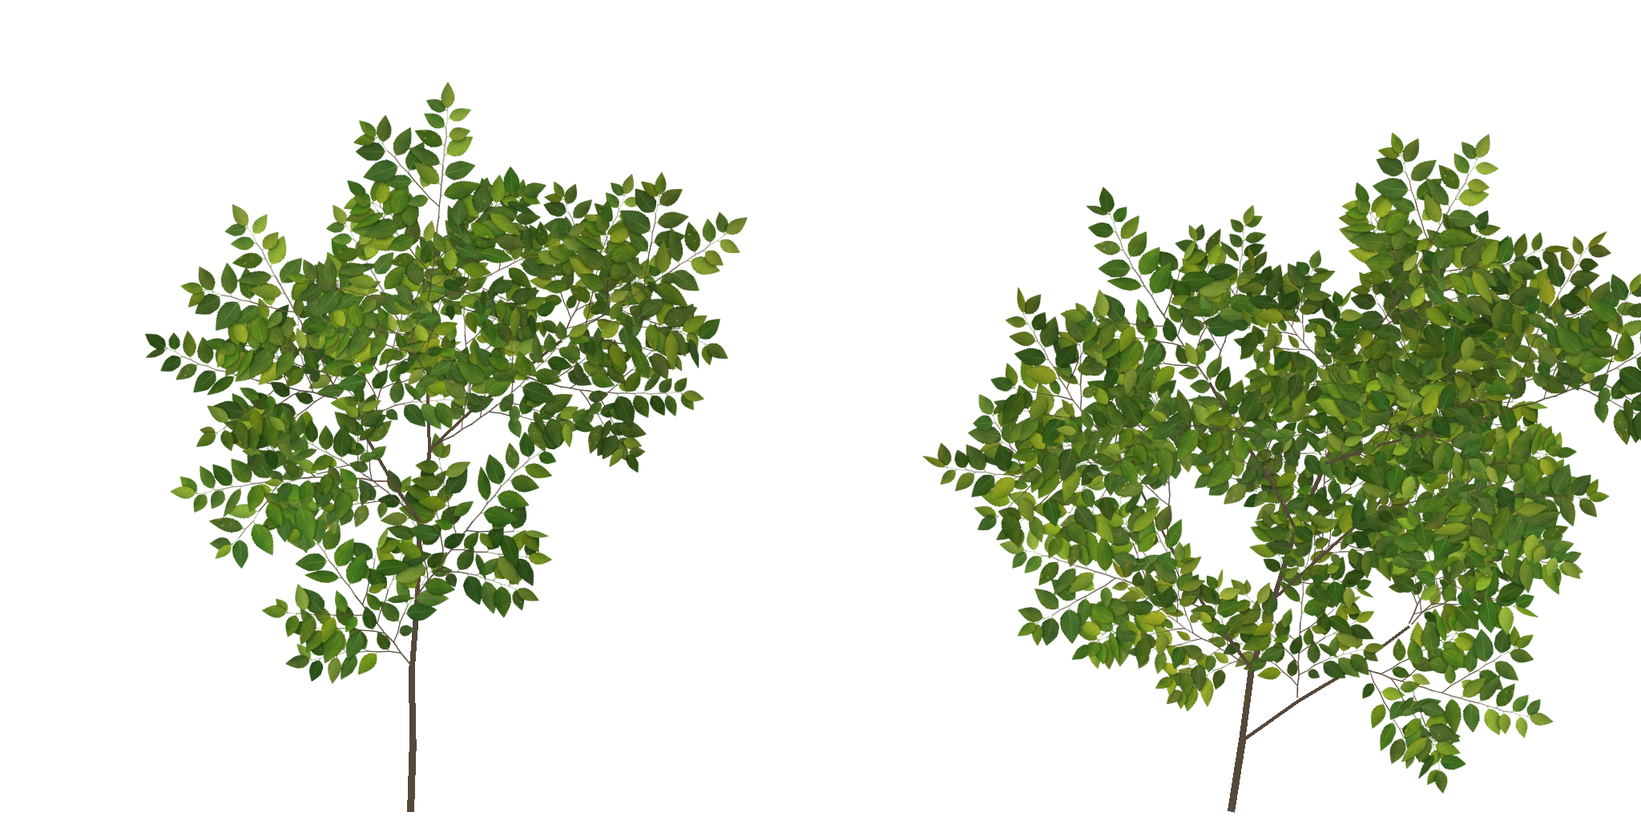
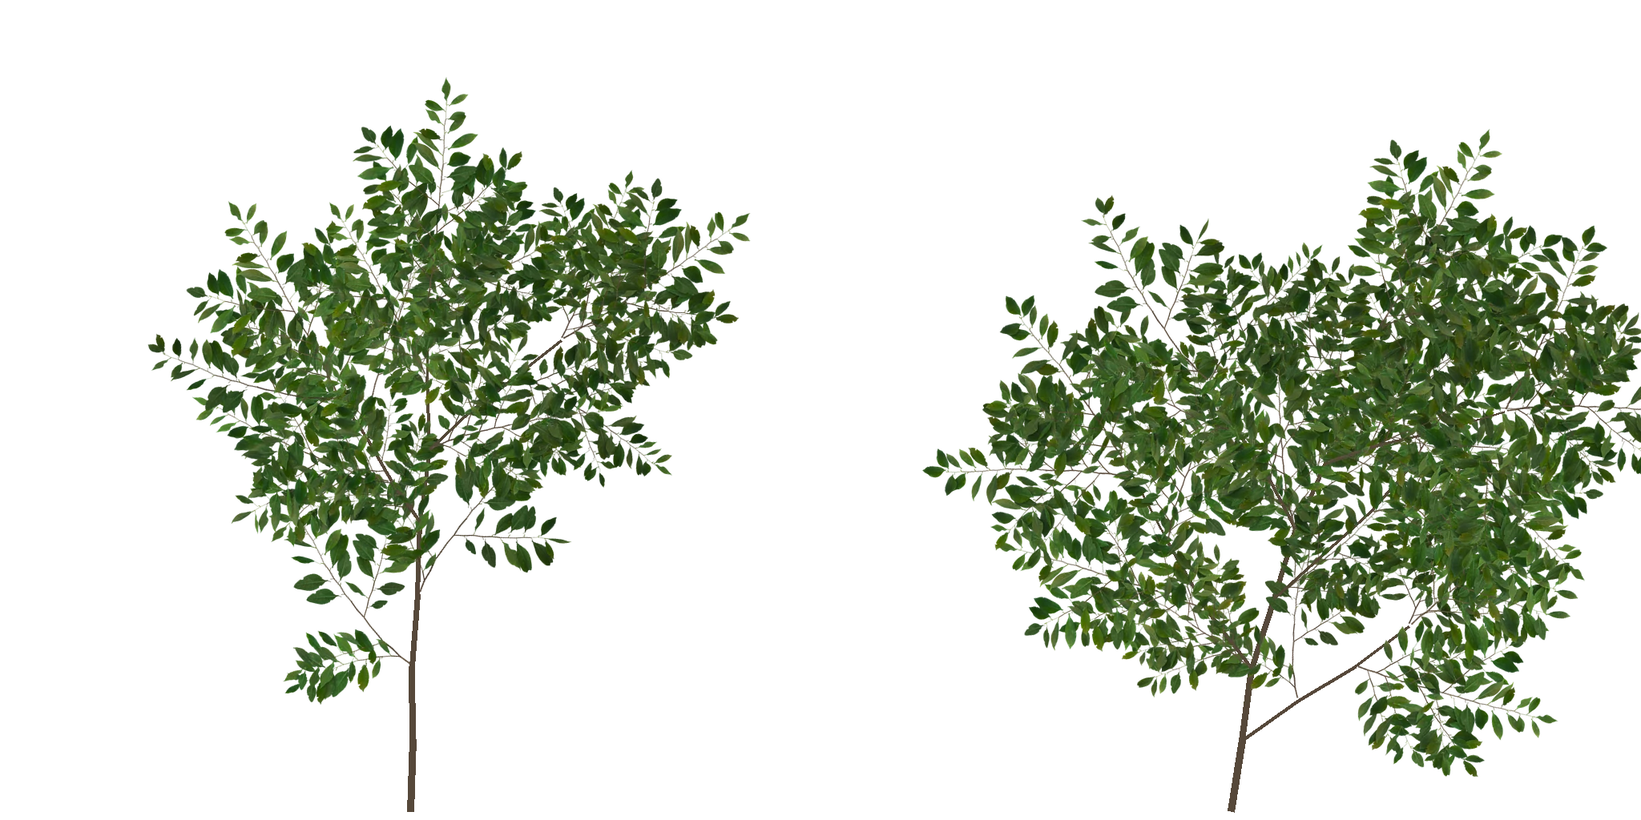
forest-pool: round 9 work in progress
Claude-Session: https://claude.ai/code/session_018FYuZc6D6uuurfGoeetqv3

Changed region(s): [[0.5625, 0.1562, 1.0, 0.9688], [0.0625, 0.0938, 0.4688, 0.875]]

diff --git a/forest-pool/src/trees.js b/forest-pool/src/trees.js
@@ -172,7 +172,7 @@ function basis(pos, dir, nrm, sx, sy, sz, out) {
 
 // Real leaves along a twig: alternate and roughly in the twig's plane, but as untidy as the real thing:
 // uneven spacing bunched toward the tip, missing leaves, every size, each rolled and pitched its own way.
-function leafTwig(limb, leaves, r, tint, { spacing = 0.034, size = 0.088, from = 0.1, shade = 1 } = {}) {
+function leafTwig(limb, leaves, r, tint, { spacing = 0.034, size = 0.1, from = 0.1, shade = 1 } = {}) {
   const n = Math.max(2, Math.floor(limb.path.L * (1 - from) / spacing));
   const P = V(0, 0, 0), T = V(0, 0, 0), side = V(0, 0, 0), dir = V(0, 0, 0), nrm = V(0, 0, 0);
   let s = r() < 0.5 ? 1 : -1;
@@ -379,7 +379,7 @@ function heroLeft(out, r) {
   ];
   mains.forEach((m, i) => out.geos.push(tube(m, { radial: i < 2 ? 18 : 10, collar: i < 2 ? 0.35 : 0.55, lumps: 0.05, seed: i * 2.1, knots: i < 2 ? addKnots(r, 4, 4, m.r0) : null, barkTile: i < 2 ? 1.5 : 0.75 })));
   const top = new Limb(new Path(trunkPath.p.filter((_, i) => trunkPath.cum[i] > 5.5)), 0.17, 0.04, 0.03, 0.5, 1);
-  growHero([...mains, top], r, out, [0.9, 0.96, 0.8], { twigDensity: out.twigDensity });
+  growHero([...mains, top], r, out, [1.0, 1.0, 0.9], { twigDensity: out.twigDensity });
 }
 
 function heroRight(out, r) {
@@ -412,7 +412,7 @@ function heroRight(out, r) {
     mains.push(leader(pts, lerp(0.12, 0.05, t), 0.012, 0.3 + t * 0.4));
   }
   mains.forEach((m, i) => out.geos.push(tube(m, { radial: 10, collar: 0.6, lumps: 0.04, seed: i, barkTile: 0.75 })));
-  growHero(mains, r, out, [0.7, 0.86, 0.78], { branchCount: 12, twigDensity: out.twigDensity });
+  growHero(mains, r, out, [0.8, 0.9, 0.85], { branchCount: 12, twigDensity: out.twigDensity });
 }
 
 // --- Forest ---------------------------------------------------------------------------
@@ -454,7 +454,7 @@ function forestTree(x, z, r, out, kind, force = null) {
   let H = 21 + r() * 9, R = 0.15 + Math.pow(r(), 3) * 0.42;        // many slim stems, few stout ones
   if (type === 'old') { H = 25 + r() * 8; R = 0.4 + r() * r() * 0.22; }
   if (type === 'young') { H = 10 + r() * 7; R = 0.07 + H * 0.006 + r() * 0.03; }
-  if (type === 'snag') { H = 7 + r() * 9; R = 0.2 + r() * 0.2; }
+  if (type === 'snag') { H = force ? 11 + r() * 3 : 7 + r() * 9; R = force ? 0.3 : 0.2 + r() * 0.2; }
   // Trees on the bank lean out over the water toward the light; everything else leans a few degrees its own way.
   const rv = river(x, z);
   const e = Math.abs(rv.d) - rv.w;
@@ -462,12 +462,12 @@ function forestTree(x, z, r, out, kind, force = null) {
   const la = r() * 6.283, lm = (type === 'young' ? 0.06 + r() * 0.16 : 0.02 + r() * 0.1) * (far ? 1.7 : 1);
   const lx = -rv.tz * toward + Math.cos(la) * lm, lz = rv.tx * toward + Math.sin(la) * lm;
   const ctrl = [];
-  const bend = (r() - 0.5) * (type === 'young' ? 1.6 : 1.1), ba = r() * 6.28;
+  const bend = (r() - 0.5) * (type === 'young' ? 2.2 : 1.9), ba = r() * 6.28, bend2 = (r() - 0.5) * (type === 'snag' ? 0.2 : 0.6), bb = r() * 6.28;
   for (let i = 0; i <= 6; i++) {
     const f = i / 6, h = f * H;
-    const sb = Math.sin(f * Math.PI) * bend;
-    const j = i > 0 ? 0.26 : 0;
-    ctrl.push(V(x + lx * h * (0.6 + f) + Math.cos(ba) * sb + (r() - 0.5) * j, y0 - 0.6 + h, z + lz * h * (0.6 + f) + Math.sin(ba) * sb + (r() - 0.5) * j));
+    const sb = Math.sin(f * Math.PI) * bend * (type === 'snag' ? 0.3 : 1), sc2 = Math.sin(f * Math.PI * 2.3) * bend2 * f;
+    const j = i > 0 ? 0.36 : 0;
+    ctrl.push(V(x + lx * h * (0.6 + f) + Math.cos(ba) * sb + Math.cos(bb) * sc2 + (r() - 0.5) * j, y0 - 0.6 + h, z + lz * h * (0.6 + f) + Math.sin(ba) * sb + Math.sin(bb) * sc2 + (r() - 0.5) * j));
   }
   const path = smoothPath(ctrl, far ? 0.5 : 1.3);
   const trunk = new Limb(path, R, R * 0.16, 0, 1.0, 0);
@@ -475,9 +475,9 @@ function forestTree(x, z, r, out, kind, force = null) {
   trunk.radiusAt = (t) => (snag ? R * (1 - 0.35 * t) : R * (1 - 0.84 * Math.pow(t, 1.25)));
   trunk.swayAt = (t) => (snag ? 0 : (type === 'young' ? 1.4 : 1.0) * Math.pow(Math.max(0, t - 0.1), 2.3));
   // every trunk its own shade of grey: some weathered pale, some dark and wet-looking, a few green with algae
-  const bv = snag ? (force ? 1.45 : 0.95) : 0.72 + r() * 0.4, bh = r();
+  const bv = snag ? 1.0 : 0.72 + r() * 0.4, bh = r();
   const tintV = [bv * (0.96 + bh * 0.08), bv * (0.98 + (1 - bh) * 0.06), bv * (0.9 + bh * 0.1)];
-  out.geos.push(tube(trunk, { radial: far ? 7 : type === 'young' ? 9 : 14, flare: far ? 0 : type === 'old' ? 1.15 : 0.8, flareLobes: 4 + Math.floor(r() * 3), flareH: 0.4 + R * 0.6, seed: r() * 10, lumps: far ? 0 : snag ? 0.12 : 0.06, knots: far || type === 'young' ? null : addKnots(r, Math.min(8, H * 0.4), 5, R), barkTile: 1.3, ground: y0, tintV }));
+  (snag ? out.snags : out.geos).push(tube(trunk, { radial: far ? 7 : type === 'young' ? 9 : 14, flare: far ? 0 : type === 'old' ? 1.6 : 1.15, flareLobes: 4 + Math.floor(r() * 3), flareH: 0.45 + R * 0.9, seed: r() * 10, lumps: far ? 0 : snag ? 0.12 : 0.06, knots: far || type === 'young' ? null : addKnots(r, Math.min(8, H * 0.4), 5, R), barkTile: 1.3, ground: y0, tintV }));
   out.contacts.push({ x, z, r: R * 2.6, dark: 0.5, moss: 0.6 });
   // roots exposed where the bank has been washed out from under the tree
   if (!far && e < 3.4 && type !== 'young') {
@@ -487,18 +487,22 @@ function forestTree(x, z, r, out, kind, force = null) {
   if (snag) {
     // broken stubs and one or two dead limbs
     const stubs = sprout(trunk, { count: 4, t0: 0.35, t1: 0.98, angle: [50, 85], len: () => 0.5 + r() * 1.6, rRatio: 0.4, rTip: 0.02, planar: false, wiggle: 0.3, segs: 3, droop: 0.15 }, r);
-    for (const b of stubs) out.geos.push(tube(b, { radial: 5, collar: 0.5, barkTile: 0.7, tintV }));
+    for (const b of stubs) out.snags.push(tube(b, { radial: 5, collar: 0.5, barkTile: 0.7, tintV }));
     return;
   }
   // species and site: most crowns mid-green, some deep blue-green, some olive, some yellow-green, a few much darker (alder)
   const ph = Math.abs(Math.sin(x * 12.9898 + z * 78.233) * 43758.5453) % 1, pv = 0.86 + 0.22 * (Math.abs(Math.sin(x * 39.3 + z * 11.1) * 9631.7) % 1);
   const pal = ph < 0.16 ? [0.5, 0.7, 0.56] : ph < 0.36 ? [0.66, 0.86, 0.78] : ph < 0.54 ? [0.98, 0.92, 0.5] : ph < 0.7 ? [1.06, 1.02, 0.56] : [0.86, 0.96, 0.74];
   const tint = [(0.86 + r() * 0.3) * pal[0] * pv, (0.94 + r() * 0.14) * pal[1] * pv, (0.72 + r() * 0.4) * pal[2] * pv];
+  // a second, darker species with feathery compound leaves, about a quarter of the stand
+  const sp2 = !far && ph < 0.26;
+  if (sp2) { tint[0] = 0.8 * pv; tint[1] = 0.84 * pv; tint[2] = 0.8 * pv; }
   { const c = path.at(0.78); out.crowns.push({ x: c.x, z: c.z, r: Math.max(3, (type === 'young' ? 4.4 * 0.9 : type === 'old' ? 8.5 * H / 26 : 7.0 * H / 26) * 0.95) }); }
   const crown0 = type === 'young' ? 0.25 + r() * 0.2 : type === 'old' ? 0.3 + r() * 0.12 : 0.34 + r() * 0.26;
   const lenBase = (type === 'young' ? 4.4 : type === 'old' ? 8.5 : 7.0) * (H / 26) * (type === 'young' ? 26 / H * 0.9 : 1);
   const nL = far ? 10 : type === 'young' ? 13 + Math.floor(r() * 4) : 13 + Math.floor(r() * 5);
   const o = { far, mid, tint, tintV, H };
+  if (sp2) out = { ...out, sprays: out.sprays2, boughs: out.boughs2 };
   if (type === 'old' && !far) {
     // co-dominant leaders split off low in the crown and carry their own limbs
     const nLead = 1 + Math.floor(r() * 2);
@@ -574,7 +578,7 @@ export function createTrees(quality) {
   heroLeft(heroL, r);
   heroRight(heroR, r);
 
-  const forest = { geos: [], small: [], sprays: new Instances(), boughs: new Instances(), leaves: new Instances(), contacts: [], roots: [], crowns: [], realNear: hi };
+  const forest = { geos: [], small: [], sprays: new Instances(), boughs: new Instances(), sprays2: new Instances(), boughs2: new Instances(), snags: [], leaves: new Instances(), contacts: [], roots: [], crowns: [], realNear: hi };
   const placed = [{ x: HERO_TREES.left.x, z: HERO_TREES.left.z }, { x: HERO_TREES.right.x, z: HERO_TREES.right.z }];
   const tooClose = (x, z, d) => placed.some((p) => (p.x - x) ** 2 + (p.z - z) ** 2 < d * d);
   const okGround = (x, z, margin) => {
@@ -599,9 +603,16 @@ export function createTrees(quality) {
     const grove = clamp(0.5 + 1.6 * fbm(x * 0.07, z * 0.07, 2, 70), 0, 1);
     if (r() > 0.25 + 0.75 * grove) continue;
     if (z < -14 && z > -45 && Math.abs(river(x, z).d) < river(x, z).w + 9 && r() < 0.4) continue;   // keep depth open along the river
-    if (!okGround(x, z, 0.9 + r() * 2.5) || tooClose(x, z, lerp(6.5, 2.3, grove) * (0.75 + r() * 0.5))) continue;
+    if (!okGround(x, z, 0.9 + r() * 2.5) || tooClose(x, z, lerp(7.5, 3.4, grove) * (0.75 + r() * 0.5))) continue;
     placed.push({ x, z }); nNear++;
     forestTree(x, z, r, forest, Math.hypot(x + 1, z + 3) < (hi ? 30 : 20) ? 'near' : 'mid');
+    // trees come up in twos and threes from the same patch of light
+    for (let c = 0, nc = r() < 0.45 ? 1 + Math.floor(r() * 2) : 0; c < nc && nNear < nearTarget; c++) {
+      const ca = r() * 6.283, cd = 1.3 + r() * 1.5, cx = x + Math.cos(ca) * cd, cz = z + Math.sin(ca) * cd;
+      if (!okGround(cx, cz, 0.9) || tooClose(cx, cz, 1.15)) continue;
+      placed.push({ x: cx, z: cz }); nNear++;
+      forestTree(cx, cz, r, forest, Math.hypot(cx + 1, cz + 3) < (hi ? 30 : 20) ? 'near' : 'mid');
+    }
   }
   // Big trees on both banks upstream lean together over the water and close the canopy above the river.
   for (let i = 0; i < (hi ? 9 : 6); i++) {
@@ -616,7 +627,7 @@ export function createTrees(quality) {
     }
   }
   // Two bleached dead trunks stand where the main views can see them.
-  for (const [sx0, sz0] of [[-4.6, -11.5], [8.0, -14.5]]) {
+  for (const [sx0, sz0] of [[-7.0, -10.0], [7.6, -13.0]]) {
     let x = sx0, z = sz0;
     for (let k = 0; k < 40 && bankE(x, z) < 1.2; k++) { const rv = river(x, z), sg = Math.sign(rv.d) || 1; x += -rv.tz * sg * 0.4; z += rv.tx * sg * 0.4; }
     placed.push({ x, z });
@@ -649,13 +660,13 @@ export function createTrees(quality) {
   }
 
   let nShrub = 0; tries = 0;
-  const shrubTarget = hi ? 46 : 20;
+  const shrubTarget = hi ? 78 : 26;
   while (nShrub < shrubTarget && tries++ < 6000) {
     const ang = r() * 6.283, rad = 6 + Math.pow(r(), 0.8) * 30;
     const x = -1 + Math.cos(ang) * rad, z = -3 + Math.sin(ang) * rad;
     if (!okGround(x, z, 0.8) || tooClose(x, z, 1.6) || saps.some((p) => (p.x - x) ** 2 + (p.z - z) ** 2 < 4)) continue;
     if (Math.hypot(x - 0.2, z - 8.4) < 6 || pathDist(x, z) < 3) continue;
-    if (fbm(x * 0.08 + 20, z * 0.08, 2, 44) < 0.0) continue;
+    if (fbm(x * 0.08 + 20, z * 0.08, 2, 44) < -0.14) continue;
     saps.push({ x, z }); nShrub++;
     shrub(x, z, r, forest);
   }
@@ -677,6 +688,8 @@ export function createTrees(quality) {
   addWood([...heroL.geos, ...heroR.geos], barkHero);
   addWood([...heroL.twigs, ...heroR.twigs], barkHero, { shadow: false, reflect: false });
   addWood(forest.geos, barkForest);
+  // dead standing trunks: bark gone, wood bleached silver-grey
+  addWood(forest.snags, barkMaterial('japanese_hackberry_bark', { tint: [2.3, 2.2, 2.0], desat: 0.8, moss: 0.3, lichen: 0, normal: 1.0, mossHeight: 0.8 }));
   // washed-out bank roots: bare, dark, wet wood rather than mossy
   addWood([...forest.roots, ...heroR.rootGeos], barkMaterial('japanese_hackberry_bark', { tint: [0.9, 0.85, 0.78], desat: 0.3, moss: 0.12, lichen: 0, normal: 1.6, mossHeight: 0.5 }));
   addWood(forest.small, barkForest, { shadow: false, reflect: false });
@@ -693,6 +706,11 @@ export function createTrees(quality) {
   thinned.push(sprays, boughs);
   sprays.frustumCulled = false; boughs.frustumCulled = false;
   group.add(sprays, boughs);
+  const sprays2 = forest.sprays2.build(cardGeometry(2, 0.2, 0.1), cardMaterials('spray2_atlas', 2, 2), { shadowFrac: 0.5, mirrorFrac: 0.5 });
+  const boughs2 = forest.boughs2.build(cardGeometry(2, 0.14, 0.08), cardMaterials('bough2_atlas', 2, 1), { shadowFrac: 0.2, mirrorFrac: 0.6 });
+  thinned.push(sprays2, boughs2);
+  sprays2.frustumCulled = false; boughs2.frustumCulled = false;
+  group.add(sprays2, boughs2);
 
   group.userData.crowns = [...forest.crowns, { x: HERO_TREES.left.x - 0.5, z: HERO_TREES.left.z - 1.2, r: 7.5 }, { x: HERO_TREES.right.x - 0.5, z: HERO_TREES.right.z - 0.4, r: 6.5 }];
   group.userData.contacts = forest.contacts;

diff --git a/forest-pool/src/water.js b/forest-pool/src/water.js
@@ -18,14 +18,22 @@ const WaterShader = {
     varying vec4 vUv;
     varying vec3 vW;
     varying vec2 vSD; varying vec2 vT;
+    uniform sampler2D tBake; uniform vec4 uBake; uniform float uTime;
     void main() {
       vSD = aSD; vT = aT;
       vUv = textureMatrix * vec4(position, 1.0);
-      vW = (modelMatrix * vec4(position, 1.0)).xyz;
-      gl_Position = projectionMatrix * modelViewMatrix * vec4(position, 1.0);
+      vec3 pos = position;
+      vec3 w0 = (modelMatrix * vec4(position, 1.0)).xyz;
+      // standing waves and haystacks where the stream breaks over ledges and round boulders: real geometry, a few centimetres high
+      vec4 bk = texture2D(tBake, (w0.xz - uBake.xy) * uBake.z);
+      float k = clamp(bk.a, 0.0, 1.0) * smoothstep(0.3, 1.0, length(bk.gb)) * smoothstep(0.04, 0.22, -bk.r);
+      pos.z += k * (0.035 * sin(aSD.y * 3.6 + sin(aSD.x * 2.3) * 1.5) + 0.02 * sin(aSD.x * 5.1 + aSD.y * 1.7 + uTime * 0.6) + 0.012);
+      vW = (modelMatrix * vec4(pos, 1.0)).xyz;
+      gl_Position = projectionMatrix * modelViewMatrix * vec4(pos, 1.0);
     }`,
   fragmentShader: /* glsl */ `
     uniform sampler2D tDiffuse, tRefr, tBake, tWaterN, tFoam, uShadowMap;
+    // (tBake / uBake / uTime are shared with the vertex stage)
     uniform mat4 uShadowMatrix;
     uniform vec4 uBake;
     uniform vec2 uRes;
@@ -97,7 +105,7 @@ const WaterShader = {
       vec2 nq = (n1.xy * 1.0 + n2.xy * (0.12 + 0.5 * fast) + n4.xy * (0.3 * fast * fast)) * chop;
       // crests run with the flow, but never more than 2:1
       // standing waves: stationary crests across the current below rocks and ledges
-      nq.y += sin(q.y * 7.0 + sin(q.x * 2.3) * 1.5) * clamp(foamK, 0.0, 1.0) * 0.22 * smoothstep(0.3, 1.0, speed);
+      nq.y += cos(q.y * 3.6 + sin(q.x * 2.3) * 1.5) * clamp(foamK, 0.0, 1.0) * 0.3 * smoothstep(0.3, 1.0, speed);
       vec3 n5 = texture2D(tWaterN, p * 0.83 + uTime * vec2(-0.021, 0.034)).xyz * 2.0 - 1.0;   // round wind ripple
       vec2 nxy = Nl * nq.x * 0.55 + T * nq.y + n3.xy * 0.03 + n5.xy * (0.08 + 0.32 * chop);
       nxy *= 1.0 / (1.0 + dist * 0.045);                    // tame sparkle aliasing far away
@@ -128,8 +136,8 @@ const WaterShader = {
       vec3 ft = flowTex(tFoam, q, fl, vec2(1.1, 0.2), 2.2);
       vec3 ft2 = flowTex(tFoam, q + 3.7, fl, vec2(3.0, 0.5), 1.4);
       // drifting bubble lines: long threads of foam carried down the fastest water
-      vec3 ft3 = flowTex(tFoam, q + 1.3, fl, vec2(2.2, 0.12), 2.6);
-      float threads = smoothstep(0.7, 0.9, ft3.b * 0.6 + ft3.r * 0.55) * (smoothstep(0.45, 1.0, fast) * 0.5 + 0.7 * clamp(foamK, 0.0, 1.0)) * ft2.g;
+      vec3 ft3 = flowTex(tFoam, q + 1.3, fl, vec2(1.6, 0.8), 2.6);
+      float threads = smoothstep(0.7, 0.9, ft3.b * 0.6 + ft3.r * 0.55) * (0.7 * clamp(foamK, 0.0, 1.0)) * ft2.g;
       float lace = ft.r * 0.75 + ft2.r * 0.5 + ft2.g * 0.3;
       float fk = clamp(foamK, 0.0, 1.2);
       // never a solid sheet: even the heaviest white water stays broken into lace and streaks
@@ -149,16 +157,22 @@ const WaterShader = {
 };
 
 function ribbonGeometry() {
-  const { n, xs, zs, ws, tx, tz } = RIVER_SAMPLES;
+  const { n, xs, zs, ws, tx, tz, ss } = RIVER_SAMPLES;
   const pos = [], idx = [], sd = [], tt = [];
-  const ss = RIVER_SAMPLES.ss;
+  const ACROSS = 14;
   let c = 0;
-  for (let i = 0; i < n; i += 2) {
+  for (let i = 0; i < n; i++) {
+    // dense where people look (0.5 m stations), coarse far up- and downstream
+    const near = Math.hypot(xs[i] + 1, zs[i] + 5) < 45;
+    if (!near && i % 4 !== 0) continue;
     const w = ws[i] + 4.5;
-    // Reflector expects a plane in local XY facing +Z; it is laid flat by rotating -90 deg about X.
-    pos.push(xs[i] + tz[i] * w, -(zs[i] - tx[i] * w), 0, xs[i] - tz[i] * w, -(zs[i] + tx[i] * w), 0);
-    sd.push(-w, ss[i], w, ss[i]); tt.push(tx[i], tz[i], tx[i], tz[i]);
-    if (c > 0) { const a = (c - 1) * 2; idx.push(a, a + 1, a + 2, a + 1, a + 3, a + 2); }
+    for (let k = 0; k <= ACROSS; k++) {
+      const d = -w + (2 * w * k) / ACROSS;
+      // Reflector expects a plane in local XY facing +Z; it is laid flat by rotating -90 deg about X.
+      pos.push(xs[i] - tz[i] * d, -(zs[i] + tx[i] * d), 0);
+      sd.push(d, ss[i]); tt.push(tx[i], tz[i]);
+    }
+    if (c > 0) for (let k = 0; k < ACROSS; k++) { const a0 = (c - 1) * (ACROSS + 1) + k, b0 = a0 + ACROSS + 1; idx.push(a0, b0, a0 + 1, a0 + 1, b0, b0 + 1); }
     c++;
   }
   const g = new THREE.BufferGeometry();

diff --git a/forest-pool/src/vegetation.js b/forest-pool/src/vegetation.js
@@ -196,12 +196,12 @@ export function createGroundCover(quality) {
   // --- Leaf litter: small, weathered beech leaves. They drift into the hollows and along the edges of the
   // trail, lie curled, crumpled or half trodden in, and a few have sunk onto the stream bed by the banks.
   const litter = new Instances();
-  const litterTarget = hi ? 44000 : 12000;
+  const litterTarget = hi ? 52000 : 13000;
   const nrm = new THREE.Vector3(), dir = new THREE.Vector3(), side = new THREE.Vector3(), X = new THREE.Vector3(), Z = new THREE.Vector3();
   let n = 0; tries = 0;
   while (n < litterTarget && tries++ < litterTarget * 14) {
-    const a = r() * 6.283, d = Math.pow(r(), 0.8) * 26;
-    const x = Math.cos(a) * d, z = 2 + Math.sin(a) * d;
+    const a = r() * 6.283, d = Math.pow(r(), 0.8) * 31;
+    const x = Math.cos(a) * d, z = 0 + Math.sin(a) * d;
     const y = heightAt(x, z);
     const sunk = y < 0.02;
     if (sunk && (y < -0.5 || r() < 0.55)) continue;

diff --git a/forest-pool/src/foliage.js b/forest-pool/src/foliage.js
@@ -20,7 +20,7 @@ export function leafGeometry() {
   const L = LEAF_V1 - LEAF_V0;
   for (let i = 0; i < st.length; i++) {
     const t = st[i];
-    const hw = Math.max(0.03, leafHalfWidth(t) * 1.16) * (t === 0 ? 4 : 1);
+    const hw = Math.max(0.03, leafHalfWidth(t) * 0.98) * (t === 0 ? 4 : 1);
     const y = pet + t * blade;
     const droop = -0.16 * t * t + 0.03 * t;             // tip curls down
     const fold = 0.26;                                   // V-fold along the midrib

diff --git a/forest-pool/tools/make_leaves.py b/forest-pool/tools/make_leaves.py
@@ -113,12 +113,63 @@ def bleed(rgba, iters=24):
     acc = np.where(wgt < 0.5, mean, acc)
     return Image.fromarray(np.dstack([acc, a[..., 3:]]).astype(np.uint8), 'RGBA')
 
-leaves = [make_leaf(i) for i in range(4)]
+# Scanned leaves (Poly Haven island_tree_01 / jacaranda_tree, CC0): cut each leaf out of its atlas, stand it
+# tip-up in a 1:2 cell with the blade base at LEAF_V0, and pull the colour toward a deep olive-green.
+SRC = '/tmp/claude-0/ph/dl/leaf2/'
+def as8(im):
+    a = np.array(im)
+    if a.dtype != np.uint8: a = (a.astype(np.float32) / 257).clip(0, 255).astype(np.uint8)
+    return a
+def scanned(name, target, min_area, horizontal=False, W=256, H=512):
+    col = as8(Image.open(f'{SRC}{name}_leaves_diff_2k.png').convert('RGB'))
+    al = as8(Image.open(f'{SRC}{name}_leaves_alpha_2k.png'))
+    if al.ndim == 3: al = al[..., 0]
+    nr = as8(Image.open(f'{SRC}{name}_leaves_nor_gl_2k.png').convert('RGB'))
+    lab, n = ndimage.label(al > 128)
+    out = []
+    objs = ndimage.find_objects(lab)
+    order = sorted(range(n), key=lambda i: (objs[i][0].start // 400, objs[i][1].start))
+    for i in order:
+        sl = objs[i]
+        m = (lab[sl] == i + 1)
+        if m.sum() < min_area: continue
+        a = (al[sl] * m).astype(np.uint8)
+        c = Image.fromarray(np.dstack([col[sl], a]), 'RGBA'); nn = Image.fromarray(nr[sl], 'RGB')
+        if horizontal:
+            w = a.shape[1]; left = a[:, :int(w * 0.15)].sum(); right = a[:, -int(w * 0.15):].sum()
+            rot = 90 if left < right else -90            # stalk end has less leaf: turn the tip up
+            c = c.rotate(rot, expand=True); nn = nn.rotate(rot, expand=True)
+            v = np.array(nn).astype(np.float32) / 127.5 - 1
+            th = math.radians(rot); ct, st = math.cos(th), math.sin(th)
+            x = v[..., 0] * ct - v[..., 1] * st; y = v[..., 0] * st + v[..., 1] * ct
+            v[..., 0], v[..., 1] = x, y
+            nn = Image.fromarray(((v * 0.5 + 0.5) * 255).clip(0, 255).astype(np.uint8), 'RGB')
+        # fit: blade spans LEAF_V0..LEAF_V1 of the cell height
+        bh = int(H * (LEAF_V1 - LEAF_V0)); bw = min(W - 4, int(c.size[0] * bh / c.size[1]))
+        c = c.resize((bw, bh), Image.LANCZOS); nn = nn.resize((bw, bh), Image.LANCZOS)
+        cell = Image.new('RGBA', (W, H), (0, 0, 0, 0)); celln = Image.new('RGB', (W, H), (128, 128, 255))
+        pos = ((W - bw) // 2, int(H * (1 - LEAF_V1)))
+        cell.paste(c, pos); celln.paste(nn, pos, c.getchannel('A'))
+        out.append([cell, celln])
+    # colour: common gain so the set averages `target`, keeping each leaf's own blotches and veins
+    px = np.concatenate([np.array(c)[..., :3][np.array(c)[..., 3] > 128] for c, _ in out]).astype(np.float32)
+    gain = np.array(target, np.float32) / px.mean(0)
+    for o in out:
+        a = np.array(o[0]).astype(np.float32); a[..., :3] = np.clip(a[..., :3] * gain, 0, 255)
+        o[0] = Image.fromarray(a.astype(np.uint8), 'RGBA')
+    return [tuple(o) for o in out]
+
+broad = scanned('island_tree_01', (68, 102, 40), 20000)
+fronds = scanned('jacaranda_tree', (52, 78, 31), 20000, horizontal=True)
+print('scanned leaves', len(broad), 'fronds', len(fronds))
+pick = [0, 1, 3, 2] if len(broad) >= 4 else list(range(len(broad)))
 atlas = Image.new('RGBA', (1024, 512)); atlas_n = Image.new('RGB', (1024, 512), (128, 128, 255))
-for i, (c, n) in enumerate(leaves):
+for i, k in enumerate(pick):
+    c, n = broad[k % len(broad)]
     atlas.paste(bleed(c), (i * 256, 0)); atlas_n.paste(n, (i * 256, 0))
 atlas.save(f'{OUT}/leaf_atlas.webp', quality=92, method=6)
 atlas_n.save(f'{OUT}/leaf_atlas_n.jpg', quality=90)
+leaves = broad
 
 # --- sprays -----------------------------------------------------------------
 TWIG = (86, 72, 58)
@@ -147,8 +198,7 @@ class Canvas:
             if w > 2.5: d.ellipse([pts[i][0] - w * 0.6, pts[i][1] - w * 0.6, pts[i][0] + w * 0.6, pts[i][1] + w * 0.6], fill=c)
     def leaf(self, x, y, ang, length, variant=None, petiole=0.1):
         """Base of the petiole at (x, y); ang = direction of the leaf, degrees CCW from +x (image y is down)."""
-        v = random.randrange(4) if variant is None else variant
-        if v == 3 and random.random() < 0.6: v = random.randrange(3)
+        v = random.randrange(len(leaves)) if variant is None else variant
         c, n = leaves[v]
         roll = math.radians(random.gauss(0, 24)); pitch = math.radians(random.gauss(8, 16))
         sw, sl = max(0.45, math.cos(roll)), max(0.6, math.cos(pitch))
@@ -190,7 +240,7 @@ class Canvas:
 
 def shoot(cv, x, y, ang, length, leaf_len, depth=0, bare=0.0):
     """A zig-zag beech shoot with alternate leaves in one plane. Returns nothing; draws into cv."""
-    inter = leaf_len * random.uniform(0.34, 0.44)
+    inter = leaf_len * random.uniform(0.27, 0.36)
     n = max(3, int(length / inter))
     pts = [(x, y)]; a = ang; side = random.choice([-1, 1])
     nodes = []
@@ -279,10 +329,32 @@ for i in range(2):
 ba.save(f'{OUT}/bough_atlas.webp', quality=88, method=6, alpha_quality=90)
 bn.resize((1024, 512), Image.LANCZOS).save(f'{OUT}/bough_atlas_n.jpg', quality=88)
 
+# --- second species: compound, feathery leaves (scanned fronds) on stout shoots, darker ----------------------
+leaves = fronds
+def make_spray2(i, size=1024):
+    random.seed(40 + i)
+    cv = Canvas(size)
+    shoot(cv, size * 0.5, size * 0.985, 90 + random.gauss(0, 5), size * random.uniform(0.66, 0.74), size * 0.3, 1, bare=0.34)
+    return cv
+sprays2 = [make_spray2(i) for i in range(4)]
+sa2 = Image.new('RGBA', (2048, 2048)); sn2 = Image.new('RGB', (2048, 2048), (128, 128, 255))
+for i, cv in enumerate(sprays2):
+    pos = ((i % 2) * 1024, (i // 2) * 1024)
+    sa2.paste(bleed(cv.col, 30), pos); sn2.paste(cv.nrm, pos)
+sa2.save(f'{OUT}/spray2_atlas.webp', quality=90, method=6, alpha_quality=92)
+sn2.resize((1024, 1024), Image.LANCZOS).save(f'{OUT}/spray2_atlas_n.jpg', quality=88)
+sprays_keep = sprays; sprays = sprays2
+ba2 = Image.new('RGBA', (2048, 1024)); bn2 = Image.new('RGB', (2048, 1024), (128, 128, 255))
+for i in range(2):
+    c, n = make_bough(200 + i)
+    ba2.paste(bleed(c, 30), (i * 1024, 0)); bn2.paste(n, (i * 1024, 0))
+ba2.save(f'{OUT}/bough2_atlas.webp', quality=88, method=6, alpha_quality=90)
+bn2.resize((1024, 512), Image.LANCZOS).save(f'{OUT}/bough2_atlas_n.jpg', quality=88)
+
 # preview sheet on a neutral background
 def on_bg(im, bg=(120, 150, 190)):
     b = Image.new('RGBA', im.size, bg + (255,)); b.alpha_composite(im); return b.convert('RGB')
 sheet = Image.new('RGB', (2048, 1536))
 sheet.paste(on_bg(atlas), (0, 0)); sheet.paste(atlas_n, (1024, 0))
-sheet.paste(on_bg(sa).resize((1024, 1024)), (0, 512)); sheet.paste(on_bg(ba).resize((1024, 512)), (1024, 512)); sheet.paste(sn.resize((1024, 1024)).crop((0, 0, 1024, 512)), (1024, 1024))
+sheet.paste(on_bg(sa).resize((1024, 1024)), (0, 512)); sheet.paste(on_bg(ba).resize((1024, 512)), (1024, 512)); sheet.paste(on_bg(sa2).resize((512, 512)), (1024, 1024)); sheet.paste(on_bg(ba2).resize((512, 256)), (1536, 1024))
 sheet.save(sys.argv[2] if len(sys.argv) > 2 else '/tmp/leaf_sheet.jpg', quality=88)
